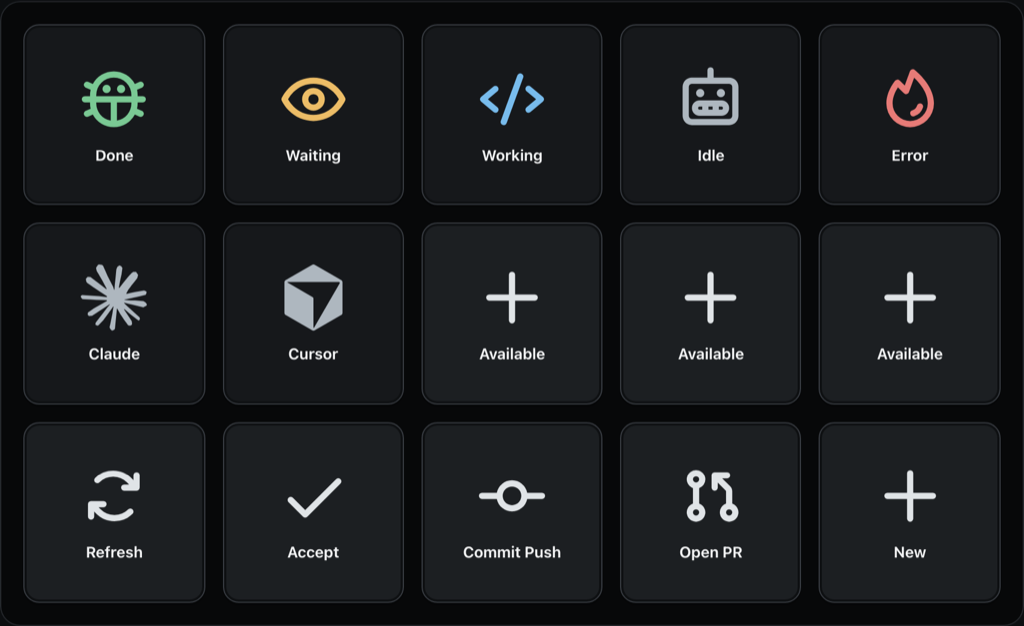
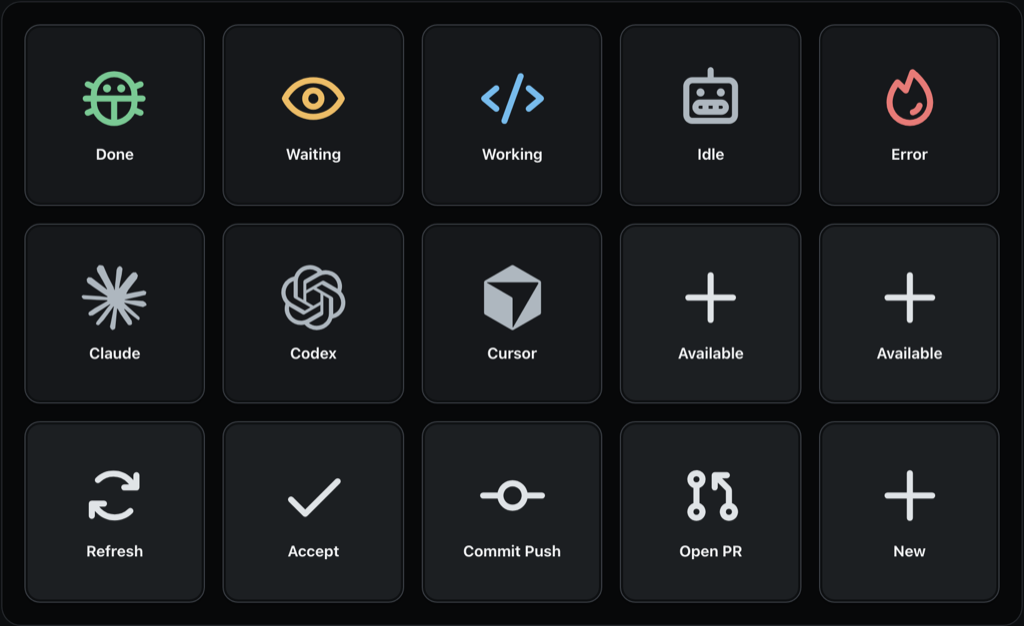
fix(codex): derive session state only from hooks and drop dead unknown color
Codex sessions defaulted to a rollout-tail-derived state, so completed turns
painted the deck green (done) with no live signal. Match the Claude Code
provider: a session with no live hook is idle at persisted confidence, and the
rollout tail is scanned only to timestamp last activity. Remove the unused
`unknown` DeckColor (SessionState.unknown already maps to idle/gray) from the
contract and every renderer.

Also add a Codex session to the demo deck and refresh the README screenshot,
document the state/color convention in docs/providers/codex.md and the
new-harness skill, and list Codex across the README.

diff --git a/macos-app/Sources/ElChangoProviders/Codex/CodexProvider.swift b/macos-app/Sources/ElChangoProviders/Codex/CodexProvider.swift
@@ -44,6 +44,8 @@ public actor CodexProvider: AgentProvider {
     public static let desktopThreadSource = "user"
     public static let maximumMetadataPrefixBytes = 1_024 * 1_024
     public static let tailScanBytes = 256 * 1_024
+    static let idleStateDetail =
+        "Persistent Codex Desktop session; no live hook signal"
     public static let commands: Set<CommandID> = [
         .accept, .createPR, .commitPush, .compact,
     ]
@@ -106,7 +108,6 @@ public actor CodexProvider: AgentProvider {
                     for: record.nativeID,
                     observedAtMilliseconds: observedAtMilliseconds
                 )
-                let fallback = record.tailState
                 sessions.append(
                     AgentSession(
                         providerID: descriptor.id,
@@ -117,9 +118,9 @@ public actor CodexProvider: AgentProvider {
                             ?? "Untitled Codex session",
                         workspaceID: record.workspaceID,
                         workspacePath: record.cwd,
-                        state: activity?.0 ?? fallback.0,
-                        confidence: activity?.1 ?? fallback.1,
-                        stateDetail: activity?.2 ?? fallback.2,
+                        state: activity?.0 ?? .idle,
+                        confidence: activity?.1 ?? .persisted,
+                        stateDetail: activity?.2 ?? Self.idleStateDetail,
                         selected: false,
                         lastActivityAtMilliseconds:
                             record.lastActivityAtMilliseconds,
@@ -337,8 +338,7 @@ public actor CodexProvider: AgentProvider {
             nativeID: nativeID,
             cwd: cwd,
             workspaceID: repositoryURL ?? cwd,
-            lastActivityAtMilliseconds: lastActivity,
-            tailState: tail.state
+            lastActivityAtMilliseconds: lastActivity
         )
     }
 
@@ -492,7 +492,6 @@ public actor CodexProvider: AgentProvider {
         if size > Int64(tailScanBytes), !lines.isEmpty {
             lines.removeFirst()  // drop a possibly partial first line
         }
-        var marker: String?
         var markerAtMilliseconds: Int64?
         for line in lines {
             guard let lineData = line.data(using: .utf8),
@@ -505,10 +504,9 @@ public actor CodexProvider: AgentProvider {
             else {
                 continue
             }
-            marker = eventType
             markerAtMilliseconds = parseISOMilliseconds(record["timestamp"])
         }
-        return CodexTail(marker: marker, lastEventAtMilliseconds: markerAtMilliseconds)
+        return CodexTail(lastEventAtMilliseconds: markerAtMilliseconds)
     }
 
     private static func fileStatus(
@@ -555,36 +553,17 @@ private struct CodexSessionRecord {
     let cwd: String
     let workspaceID: String
     let lastActivityAtMilliseconds: Int64
-    let tailState: (SessionState, DeckConfidence, String)
 }
 
 private struct CodexTail {
+    // Live session state comes only from hook signals (the activity store);
+    // the rollout tail is scanned solely to timestamp the last lifecycle event
+    // for ordering, never to derive a state such as `done`.
     static let lifecycleMarkers: Set<String> = [
         "task_started", "task_complete", "turn_aborted",
     ]
 
-    let marker: String?
     let lastEventAtMilliseconds: Int64?
-
-    var state: (SessionState, DeckConfidence, String) {
-        switch marker {
-        case "task_started":
-            return (
-                .working, .persisted,
-                "Persistent Codex Desktop session; rollout shows an in-progress turn"
-            )
-        case "task_complete":
-            return (
-                .done, .persisted,
-                "Persistent Codex Desktop session; rollout shows a completed turn"
-            )
-        default:
-            return (
-                .idle, .persisted,
-                "Persistent Codex Desktop session; no fresh hook signal"
-            )
-        }
-    }
 }
 
 private struct CachedCodexRecord {

diff --git a/macos-app/Tests/ElChangoProvidersTests/CodexProviderTests.swift b/macos-app/Tests/ElChangoProvidersTests/CodexProviderTests.swift
@@ -47,8 +47,10 @@ struct CodexProviderTests {
                 $0.nativeID == "11111111-1111-7111-8111-111111111111"
             }
         )
-        // The alpha thread has two rollouts; the newest completed turn wins.
-        #expect(alpha.state == .done)
+        // Persisted rollouts never derive a live state: without a hook signal
+        // the session is idle. The newest rollout still sets last activity.
+        #expect(alpha.state == .idle)
+        #expect(alpha.confidence == .persisted)
         #expect(alpha.lastActivityAtMilliseconds == 1_783_617_000_000)
     }
 
@@ -96,7 +98,7 @@ struct CodexProviderTests {
         #expect(snapshot.sessions.isEmpty)
     }
 
-    @Test("a fresh hook overrides the persisted tail state")
+    @Test("a fresh hook provides live state over the idle default")
     func hookOverridesTailState() async throws {
         let fixture = try CodexTemporaryFixture()
         let activity = CodexActivityStore()
@@ -122,7 +124,8 @@ struct CodexProviderTests {
             observedAtMilliseconds: 100
         )
         let session = try #require(try await provider.snapshot().sessions.first)
-        // Tail says done; the fresh hook says working at observed confidence.
+        // Without a hook the session is idle; the fresh hook makes it working
+        // at observed confidence.
         #expect(session.state == .working)
         #expect(session.confidence == .observed)
     }
@@ -138,7 +141,10 @@ struct CodexProviderTests {
                 """#,
             events: [("2026-07-09T10:00:05.000Z", "task_started")]
         )
-        #expect(try await provider.snapshot().sessions.first?.state == .working)
+        #expect(
+            try await provider.snapshot().sessions.first?
+                .lastActivityAtMilliseconds == 1_783_591_205_000
+        )
 
         try fixture.writeRollout(
             name: "rollout-2026-07-09T10-00-00-grow.jsonl",
@@ -150,7 +156,12 @@ struct CodexProviderTests {
                 ("2026-07-09T10:05:00.000Z", "task_complete"),
             ]
         )
-        #expect(try await provider.snapshot().sessions.first?.state == .done)
+        // The cache re-reads the grown rollout, so last activity advances to
+        // the newer lifecycle event.
+        #expect(
+            try await provider.snapshot().sessions.first?
+                .lastActivityAtMilliseconds == 1_783_591_500_000
+        )
     }
 
     @Test("privileged actions fail closed pending live verification")

diff --git a/plugins/streamdeck/src/contracts.ts b/plugins/streamdeck/src/contracts.ts
@@ -1,11 +1,11 @@
-// Generated by scripts/generate_http_contracts.py from contracts/http/v1/openapi.json (sha256: 84c7c0cbb85265fc175b0980331ff24cb92a09dbd7081e6f315b189e743bc693).
+// Generated by scripts/generate_http_contracts.py from contracts/http/v1/openapi.json (sha256: de6c7e97b08dece219db99a642f9742380a61cdd69d2c472dbef2949f461c8f4).
 // Do not edit directly.
 
 export type DeckButtonKind = "session" | "control" | "empty";
 
 export type DeckIconName = "cursor" | "claude" | "codex" | "plus" | "arrow-left" | "arrow-right" | "arrows-clockwise" | "robot" | "terminal" | "code" | "bug" | "wrench" | "rocket" | "shield" | "database" | "globe" | "package" | "git-branch" | "flask" | "check" | "git-pull-request" | "git-commit" | "article" | "fire" | "fire-extinguisher" | "fire-truck" | "magnifying-glass" | "bell" | "test-tube" | "checks" | "eye" | "shield-check";
 
-export type DeckButtonColor = "idle" | "working" | "waiting" | "done" | "error" | "unknown" | "control";
+export type DeckButtonColor = "idle" | "working" | "waiting" | "done" | "error" | "control";
 
 export type DeckButtonConfidence = "observed" | "candidate" | "persisted" | "unknown";
 
@@ -307,7 +307,6 @@ const SCHEMAS: Record<string, Schema> = {
       "waiting",
       "done",
       "error",
-      "unknown",
       "control"
     ],
     "type": "string"

diff --git a/web/src/lib/contracts.ts b/web/src/lib/contracts.ts
@@ -1,11 +1,11 @@
-// Generated by scripts/generate_http_contracts.py from contracts/http/v1/openapi.json (sha256: 84c7c0cbb85265fc175b0980331ff24cb92a09dbd7081e6f315b189e743bc693).
+// Generated by scripts/generate_http_contracts.py from contracts/http/v1/openapi.json (sha256: de6c7e97b08dece219db99a642f9742380a61cdd69d2c472dbef2949f461c8f4).
 // Do not edit directly.
 
 export type DeckButtonKind = 'session' | 'control' | 'empty'
 
 export type DeckIconName = 'cursor' | 'claude' | 'codex' | 'plus' | 'arrow-left' | 'arrow-right' | 'arrows-clockwise' | 'robot' | 'terminal' | 'code' | 'bug' | 'wrench' | 'rocket' | 'shield' | 'database' | 'globe' | 'package' | 'git-branch' | 'flask' | 'check' | 'git-pull-request' | 'git-commit' | 'article' | 'fire' | 'fire-extinguisher' | 'fire-truck' | 'magnifying-glass' | 'bell' | 'test-tube' | 'checks' | 'eye' | 'shield-check'
 
-export type DeckButtonColor = 'idle' | 'working' | 'waiting' | 'done' | 'error' | 'unknown' | 'control'
+export type DeckButtonColor = 'idle' | 'working' | 'waiting' | 'done' | 'error' | 'control'
 
 export type DeckButtonConfidence = 'observed' | 'candidate' | 'persisted' | 'unknown'
 
@@ -309,7 +309,6 @@ const SCHEMAS: Record<string, Schema> = {
       'waiting',
       'done',
       'error',
-      'unknown',
       'control'
     ],
     'type': 'string'

diff --git a/web/src/App.browser.test.ts b/web/src/App.browser.test.ts
@@ -30,7 +30,7 @@ describe('App demo mode', () => {
     )
     expect(
       Array.from(document.body.querySelectorAll('button'))
-        .slice(0, 7)
+        .slice(0, 8)
         .map((button) => button.textContent?.trim()),
     ).toEqual([
       'Done',
@@ -39,6 +39,7 @@ describe('App demo mode', () => {
       'Idle',
       'Error',
       'Claude',
+      'Codex',
       'Cursor',
     ])
 
@@ -49,6 +50,7 @@ describe('App demo mode', () => {
       ['Idle', 'Local agent', 'robot', 'idle'],
       ['Error', 'Local agent', 'fire', 'error'],
       ['Claude', 'Claude Code', 'claude', 'idle'],
+      ['Codex', 'Codex', 'codex', 'idle'],
       ['Cursor', 'Cursor', 'cursor', 'idle'],
     ] as const
 

diff --git a/macos-app/Sources/ElChangoCore/Contracts/HTTPContracts.swift b/macos-app/Sources/ElChangoCore/Contracts/HTTPContracts.swift
@@ -1,4 +1,4 @@
-// Generated by scripts/generate_http_contracts.py from contracts/http/v1/openapi.json (sha256: 84c7c0cbb85265fc175b0980331ff24cb92a09dbd7081e6f315b189e743bc693).
+// Generated by scripts/generate_http_contracts.py from contracts/http/v1/openapi.json (sha256: de6c7e97b08dece219db99a642f9742380a61cdd69d2c472dbef2949f461c8f4).
 // Do not edit directly.
 
 import Foundation
@@ -50,7 +50,6 @@ public enum DeckColor: String, Codable, Sendable {
     case waiting
     case done
     case error
-    case unknown
     case control
 }
 

diff --git a/web/src/lib/demo-deck.ts b/web/src/lib/demo-deck.ts
@@ -71,6 +71,15 @@ export const demoSessions = [
     selected: false,
   },
   {
+    id: 'codex:refactor',
+    providerId: 'codex',
+    label: 'Codex',
+    detail: 'Codex',
+    icon: 'codex',
+    color: 'idle',
+    selected: false,
+  },
+  {
     id: 'cursor:monkeycoding',
     providerId: 'cursor',
     label: 'Cursor',

diff --git a/macos-app/Sources/ElChangoCore/Deck/DeckLayout.swift b/macos-app/Sources/ElChangoCore/Deck/DeckLayout.swift
@@ -277,7 +277,7 @@ enum DeckLayout {
                 label: "",
                 detail: "",
                 icon: .arrowsClockwise,
-                color: .unknown,
+                color: .idle,
                 enabled: false,
                 confidence: .unknown
             )

diff --git a/plugins/streamdeck/src/render.ts b/plugins/streamdeck/src/render.ts
@@ -6,7 +6,6 @@ const SIGNAL_COLORS = {
   waiting: "#e4a83c",
   done: "#57b77a",
   error: "#de5c58",
-  unknown: "#8b7da0",
   control: "#adb4ba",
 } as const;
 const CONTROL_ICON_COLOR = "#e0e4e7";

diff --git a/web/src/lib/DeckKey.svelte b/web/src/lib/DeckKey.svelte
@@ -316,10 +316,6 @@
     --icon: #e77b77;
   }
 
-  .deck-key--unknown {
-    --icon: #afa2c2;
-  }
-
   .deck-key--control {
     --icon: #e0e4e7;
     background: #1c1f22;

diff --git a/docs/providers/codex.md b/docs/providers/codex.md
@@ -18,9 +18,9 @@ Codex records degrade only this provider.
 Current conservative verdicts:
 
 - Inventory: `INVENTORY_SUPPORTED` for the observed installation.
-- State: implemented from rollout tails at persisted confidence and from Codex
-  plugin hooks at observed confidence, but live hook observation remains
-  outstanding: `UNPROVEN_REQUIRES_LIVE_HOOK_OBSERVATION`.
+- State: derived only from Codex plugin hooks at observed confidence; with no
+  live hook a session is idle at persisted confidence. Live hook observation
+  remains outstanding: `UNPROVEN_REQUIRES_LIVE_HOOK_OBSERVATION`.
 - Selected session: `UNPROVEN_NO_STATIC_SELECTED_SESSION_SIGNAL`. No
   authoritative static signal was found, so selection is always reported as
   unknown.
@@ -130,19 +130,15 @@ workspace identity.
 
 ## State model and hooks
 
-State has two sources, preferring live hooks over the persisted fallback.
+Live state comes only from hooks. A session with no live hook signal is idle
+(gray) at persisted confidence, matching the Claude Code provider: green (done),
+blue (working), and orange (waiting) are never derived from persisted files, so
+the deck never shows a stale done/working state by default.
 
-Persisted fallback (no live hook): the provider scans a bounded rollout tail for
-the newest `event_msg` lifecycle marker and maps it at persisted confidence:
-
-- `task_started` (no later terminal marker): blue, working;
-- `task_complete`: green, done;
-- `turn_aborted`: gray, idle;
-- no marker: gray, idle.
-
-Observation, not conclusion: no persisted "waiting for approval" record was
-found in Desktop rollouts, so the waiting (orange) state is not derivable from
-rollouts.
+The provider still scans a bounded rollout tail, but only to timestamp the
+newest `event_msg` lifecycle marker (`task_started`, `task_complete`,
+`turn_aborted`) for last-activity ordering; the marker never sets a session
+state.
 
 Live hooks: Codex supports a plugin hook system with the same file schema and
 payload field names as Claude Code, but only `type: "command"` handlers run, so
@@ -239,9 +235,9 @@ is claimed.
 Malformed records, absent required metadata, and unreadable rollouts reject or
 skip only the affected record and never disable Cursor or Claude or prevent the
 host from starting. A missing `~/.codex/sessions` directory fails the Codex
-snapshot alone. Sessions without a fresh hook are reported at persisted
-confidence from the rollout tail; a stale working or waiting hook older than ten
-minutes becomes unknown with explicit degraded detail.
+snapshot alone. Sessions without a fresh hook are reported as idle at persisted
+confidence; a stale working or waiting hook older than ten minutes becomes
+unknown with explicit degraded detail.
 
 ## Limitations and open questions
 

diff --git a/README.md b/README.md
@@ -5,8 +5,8 @@
 </p>
 
 elChango turns a physical Stream Deck into a dedicated control surface for
-native AI coding sessions on macOS. Its 15 keys show Cursor and Claude Code
-sessions at a glance, then let you return to the right session, start a new one,
+native AI coding sessions on macOS. Its 15 keys show Cursor, Claude Code, and
+Codex sessions at a glance, then let you return to the right session, start a new one,
 and run a small set of verified commands without leaving the hardware.
 
 The physical Stream Deck MK.2 experience is the main product. You can try the
@@ -23,7 +23,7 @@ guessing.
 - A Stream Deck MK.2 profile with a complete 5-by-3 physical control surface.
 - Support for the six-key free Stream Deck Mobile tier, with Mobile Pro required
   for the complete 5-by-3 layout.
-- A native menu bar app that discovers local Cursor and Claude Code sessions.
+- A native menu bar app that discovers local Cursor, Claude Code, and Codex sessions.
 - A browser fallback for setup, testing, and troubleshooting.
 - Shared working, waiting, done, error, idle, and degraded status.
 - Verified session focus and neutral new-session launch.
@@ -31,13 +31,13 @@ guessing.
   selected provider and session support them.
 
 <p align="center">
-  <img src="docs/assets/elchango-deck-demo.png" alt="elChango 15-key deck showing session states, Cursor and Claude providers, and agent controls" width="1024">
+  <img src="docs/assets/elchango-deck-demo.png" alt="elChango 15-key deck showing session states, Cursor, Claude, and Codex providers, and agent controls" width="1024">
 </p>
 
 ## Requirements
 
 - macOS 14 or newer.
-- Cursor and/or Claude Desktop with Claude Code sessions.
+- Cursor, Claude Desktop with Claude Code sessions, and/or the Codex desktop app.
 - Accessibility permission for session focus and commands.
 - Stream Deck 7.1 or newer for Stream Deck Mobile or the physical surface.
 
@@ -152,6 +152,22 @@ claude plugin install elchango@elchango
 
 Start elChango before beginning or resuming a Claude Code session. See the
 [Claude Code plugin guide](plugins/claude/README.md) for hook coverage.
+
+### Codex
+
+When the plugin is missing or out of date, the elChango menu offers **Install
+Codex Plugin** or **Update Codex Plugin**, which runs the official commands below
+for you. To do it manually, or if the `codex` CLI is not on your `PATH` (reported
+under **Diagnostics**), run:
+
+```bash
+codex plugin marketplace add jychp/elchango
+codex plugin add elchango@elchango
+```
+
+To update later, run `codex plugin marketplace upgrade elchango`. Start elChango
+before beginning or resuming a Codex session. See the
+[Codex plugin guide](plugins/codex/README.md) for hook coverage.
 
 ## Use and personalize the deck
 
